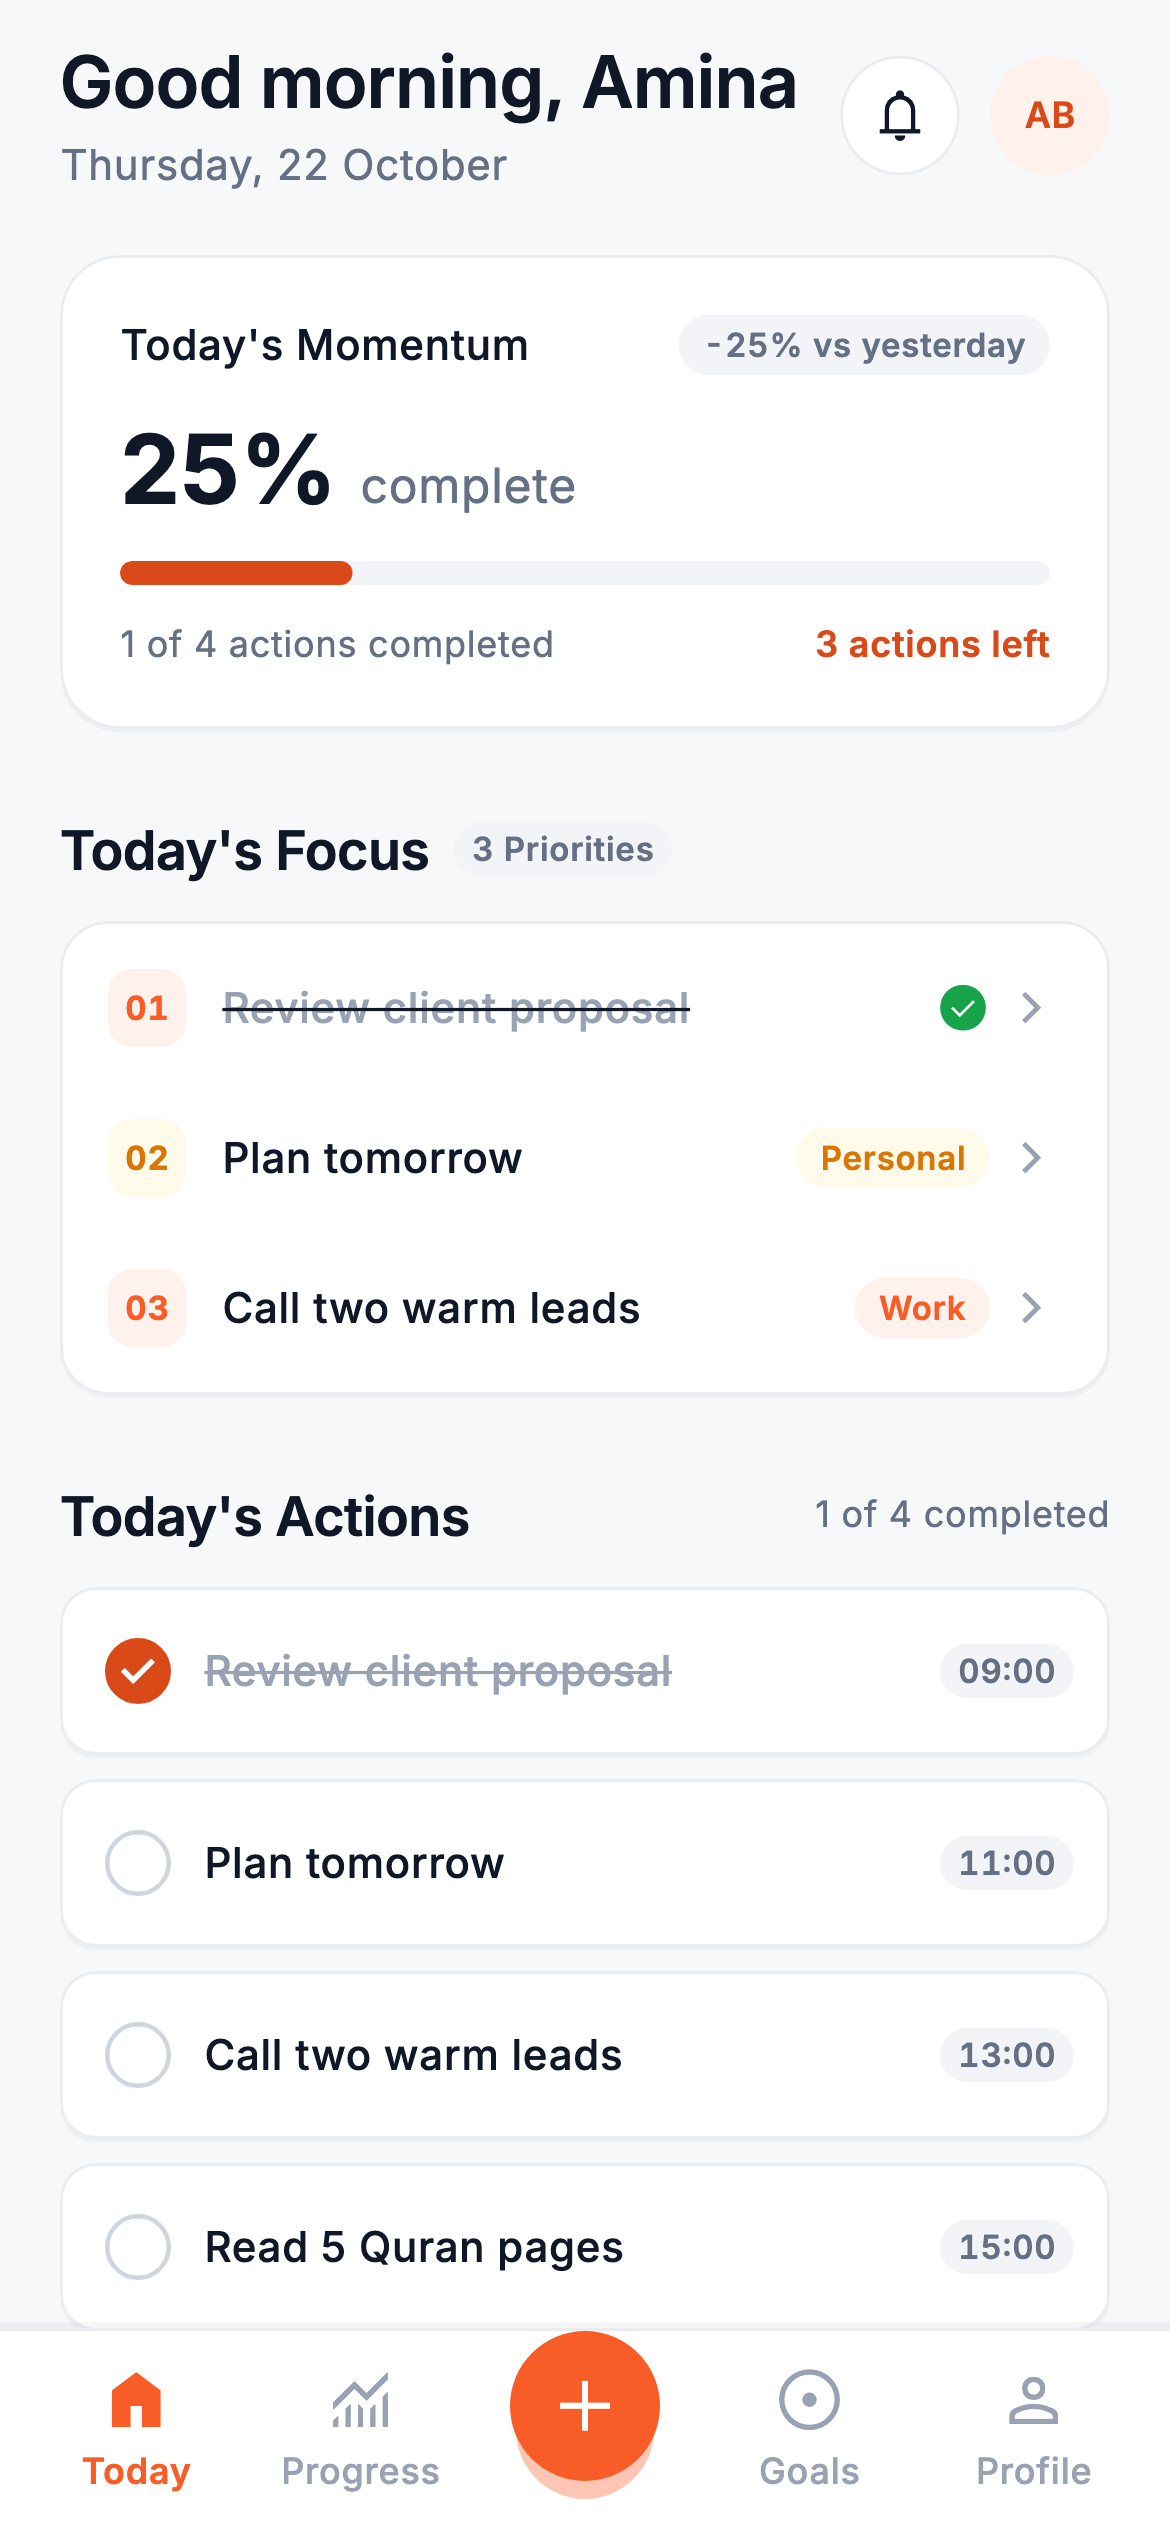
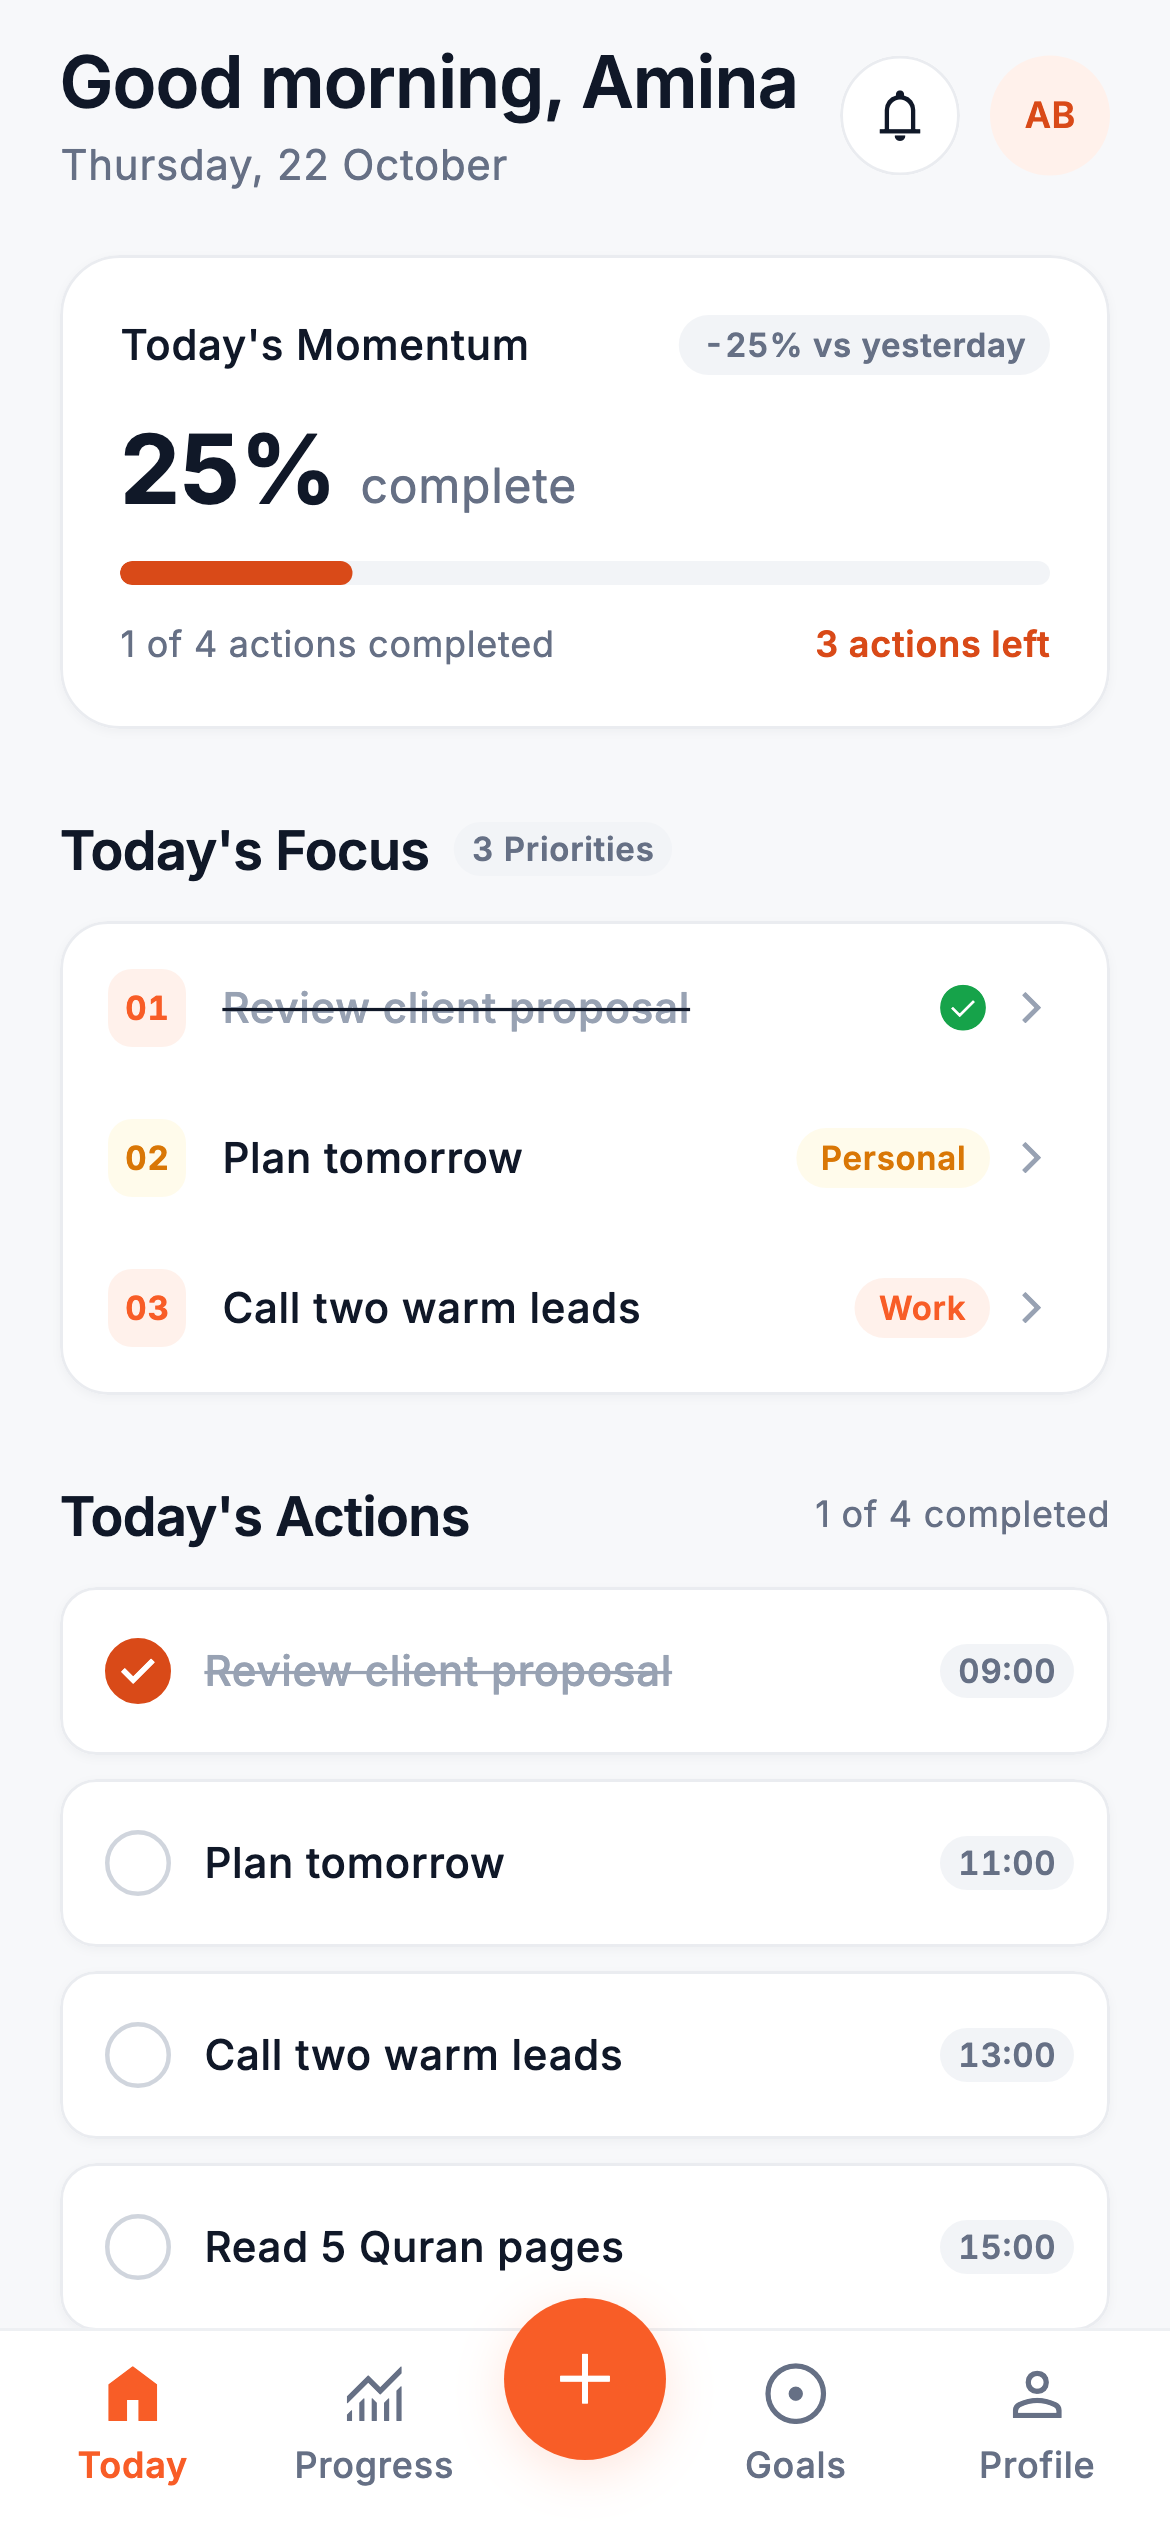
docs: refresh GitHub showcase screenshots and README

diff --git a/tool/screenshots/capture_screenshots_test.dart b/tool/screenshots/capture_screenshots_test.dart
@@ -106,7 +106,10 @@ void main() {
     return (c, env);
   }
 
+  // Each test renders real blurred shadows, as on a device, and restores the
+  // test default before it ends.
   testWidgets('English showcase', (tester) async {
+    debugDisableShadows = false;
     final (c, env) = await boot(tester);
     for (final (name, route) in _shots) {
       var location = route;
@@ -122,14 +125,17 @@ void main() {
         matchesGoldenFile('../../docs/screenshots/$name.png'),
       );
     }
+    debugDisableShadows = true;
   });
 
   testWidgets('Arabic showcase', (tester) async {
+    debugDisableShadows = false;
     final (c, _) = await boot(tester, prefs: {'pref.locale': 'ar'});
     await goTo(tester, c, AppRoutes.today);
     await expectLater(
       find.byType(MaterialApp),
       matchesGoldenFile('../../docs/screenshots/11_today_arabic.png'),
     );
+    debugDisableShadows = true;
   });
 }

diff --git a/README.md b/README.md
@@ -12,7 +12,7 @@
   <img src="https://img.shields.io/badge/Flutter-3.47-02569B?logo=flutter&logoColor=white" alt="Flutter 3.47">
   <img src="https://img.shields.io/badge/offline--first-local%20SQLite-2E7D32" alt="Offline-first">
   <img src="https://img.shields.io/badge/platforms-Android%20%7C%20iOS-555555" alt="Platforms: Android and iOS">
-  <img src="https://img.shields.io/badge/tests-119%20passing-success" alt="119 tests passing">
+  <img src="https://img.shields.io/badge/tests-150%20passing-success" alt="150 tests passing">
   <img src="https://img.shields.io/badge/i18n-English%20%7C%20العربية%20(RTL)-F26B1D" alt="English and Arabic">
 </p>
 
@@ -183,7 +183,7 @@ Development verification on the current codebase:
 | Check | Result |
 | --- | --- |
 | `flutter analyze` | No issues |
-| `flutter test` | 119 passing (72 unit, 21 data, 26 widget) |
+| `flutter test` | 150 passing (75 unit, 25 data, 50 widget) |
 | `flutter build apk --debug` | Successful |
 | `flutter build ios --simulator` | Successful |
 
@@ -196,8 +196,8 @@ These are local development results, not a store release. The suite runs fully o
   logs, onboarding, demo seeder, JSON/CSV export, persistence, schema migration, language
   switching without data changes
 - **Widget** — the real app on test doubles: every screen at 360 px and 430 px widths and at
-  1.35× text size (any overflow fails), first-run flow, Quick Add, navigation, Arabic RTL
-  screens and golden images
+  1.35× text size (any overflow fails), first-run flow, Quick Add, bottom navigation in both
+  directions, Arabic RTL screens and golden images
 
 ## Localization
 
